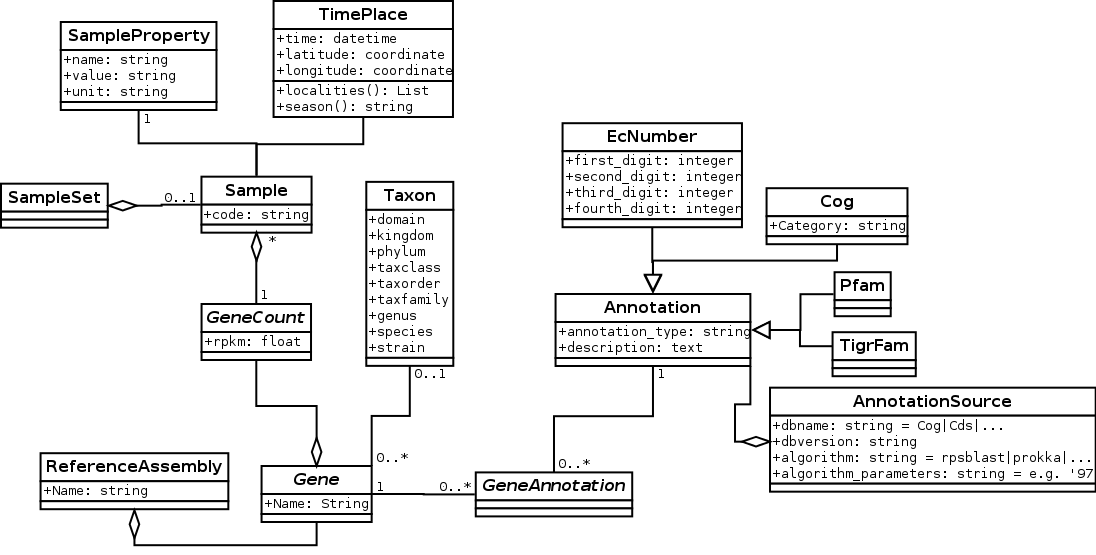
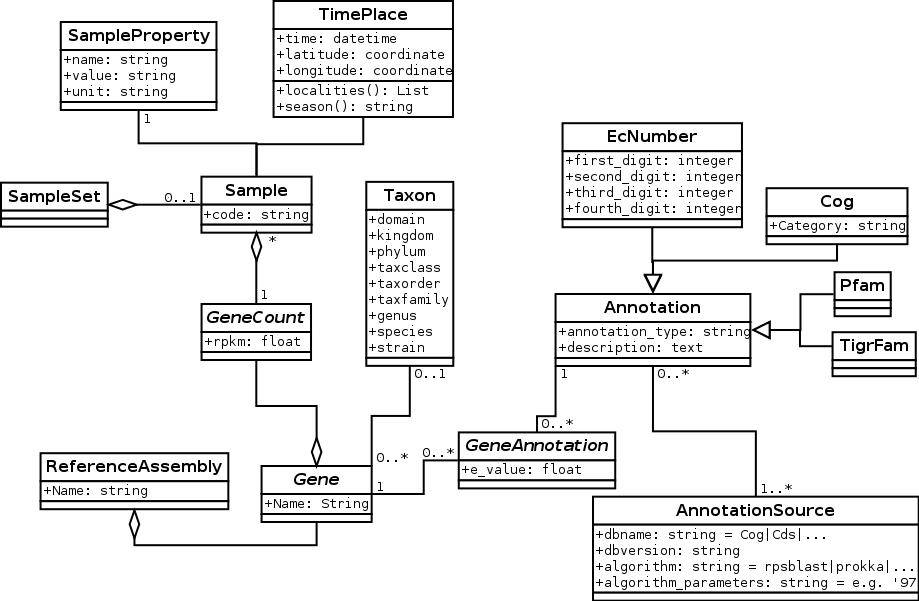
Gene annotaiton relationship as a table, fixes #2

Changed region(s): [[0.0, 0.0, 1.0, 1.0]]

diff --git a/models.py b/models.py
@@ -90,10 +90,22 @@ class ReferenceAssembly(db.Model):
     def __init__(self, name):
         self.name = name
 
-gene_annotation = db.Table('gene_annotation', 
-        db.Column('annotation_id', db.Integer, db.ForeignKey('annotation.id')),
-        db.Column('gene_id', db.Integer, db.ForeignKey('gene.id'))
-    )
+class GeneAnnotation(db.Model):
+    __tablename__ = 'gene_annotation'
+
+    id = db.Column(db.Integer, primary_key=True)
+
+    annotation_id = db.Column('annotation_id', db.Integer, db.ForeignKey('annotation.id'))
+    gene_id = db.Column('gene_id', db.Integer, db.ForeignKey('gene.id'))
+    e_value = db.Column('e_value', db.Float, nullable=True)
+
+    gene = db.relationship("Gene")
+    annotation = db.relationship("Annotation")
+
+    def __init__(self, annotation=None, gene=None, e_value=None):
+        self.annotation = annotation
+        self.gene = gene
+        self.e_value = e_value
 
 class Gene(db.Model):
     __tablename__ = 'gene'
@@ -105,14 +117,31 @@ class Gene(db.Model):
             db.ForeignKey('reference_assembly.id'))
     reference_assembly = db.relationship("ReferenceAssembly",
             backref=db.backref("genes"))
+    gene_annotations = db.relationship("GeneAnnotation")
+
 
     def __init__(self, name, reference_assembly):
         self.name = name
         self.reference_assembly = reference_assembly
 
     @property
+    def annotations(self):
+        q = db.session.query(Annotation).join(GeneAnnotation).\
+                filter(Annotation.id == GeneAnnotation.annotation_id).\
+                filter(GeneAnnotation.gene_id == self.id)
+        return list(q.all())
+
+    @property
     def rpkm(self):
         return { sc.sample: sc.rpkm for sc in self.sample_counts }
+
+    def e_value_for(self, annotation):
+        return self.gene_annotation_for(annotation).e_value
+
+    def gene_annotation_for(self, annotation):
+        return db.session.query(GeneAnnotation).\
+                filter_by(gene = self).\
+                filter_by(annotation = annotation).first()
 
 class GeneCount(db.Model):
     __tablename__ = 'gene_count'
@@ -166,10 +195,16 @@ class Annotation(db.Model):
             backref=db.backref('annotations'))
     annotation_type = db.Column(db.String)
     
-    genes = db.relationship('Gene', secondary=gene_annotation,
-            backref=db.backref('annotations'))
+    gene_annotations = db.relationship('GeneAnnotation')
 
     type_identifier = db.Column(db.String, nullable=False)
+
+    @property
+    def genes(self):
+        q = db.session.query(Gene).join(GeneAnnotation).\
+                filter(Gene.id == GeneAnnotation.gene_id).\
+                filter(GeneAnnotation.annotation_id == self.id)
+        return list(q.all())
 
     @property
     def rpkm(self):
@@ -178,10 +213,10 @@ class Annotation(db.Model):
                 filter(Sample.id == GeneCount.sample_id).\
                 join(Gene).\
                 filter(GeneCount.gene_id == Gene.id).\
-                join(gene_annotation).\
-                filter(Gene.id == gene_annotation.c.gene_id).\
+                join(GeneAnnotation).\
+                filter(Gene.id == GeneAnnotation.gene_id).\
                 join(Annotation).\
-                filter(gene_annotation.c.annotation_id == Annotation.id).\
+                filter(GeneAnnotation.annotation_id == Annotation.id).\
                 filter(Annotation.id == self.id).\
                 group_by(Sample.id)
 
